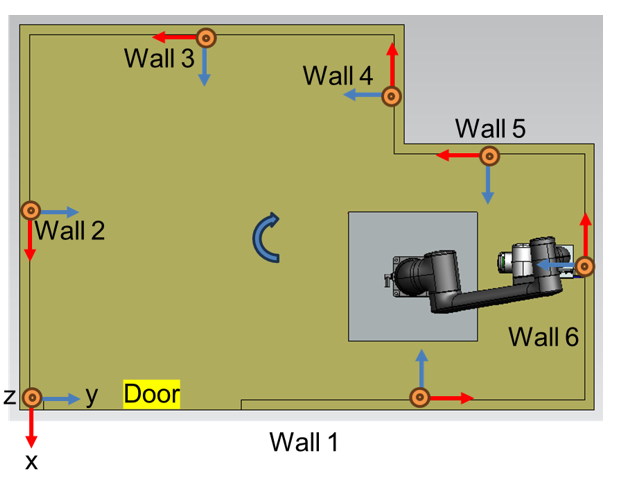
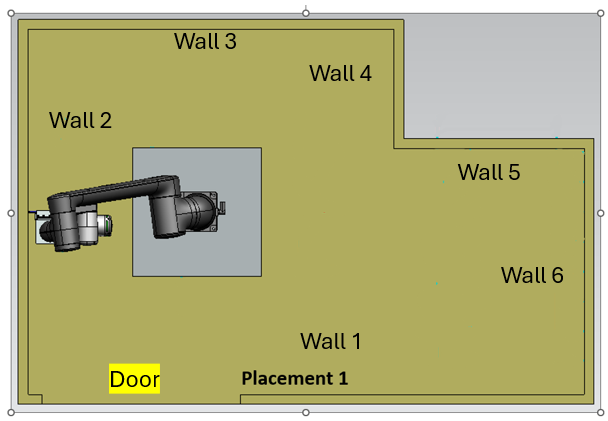
changes for ui

diff --git a/newui_Greyform/greyformui-usb-completionmessage/src/Components/Status.tsx b/newui_Greyform/greyformui-usb-completionmessage/src/Components/Status.tsx
@@ -27,7 +27,7 @@ const views = {
   reading: { title: "Reading USB drive...", message: "Please wait while we read the contents of the USB drive.", variant: "info", primaryText: "Cancel", showSpinner: true },
   success: { title: "USB drive detected", message: "Press Continue to launch the UI.", variant: "success", primaryText: "Continue", showSpinner: false },
   error:   { title: "Error reading USB drive", message: "Please plug in your drive", variant: "error", primaryText: "Try Again", showSpinner: false },
-  launching:{ title: "Launching UI…", message: "Sending request to the backend.", variant: "info", primaryText: "Launching…", showSpinner: true },
+  launching:{ title: "Loading…", message: "", variant: "info", primaryText: "Loading…", showSpinner: true },
   shutdown:{ title: "Please power off the machine", message: "The operation is completed successfully", variant: "neutral", primaryText: "", showSpinner: false },
 } as const;
 export default function Status() {

diff --git a/newui_Greyform/processlistenerrunner.py b/newui_Greyform/processlistenerrunner.py
@@ -96,7 +96,6 @@ class ListenerNodeRunner:
             set -e
             source {ros_setup}
             source {ws_setup}
-            rospack find talker_listener >/dev/null
             rosrun talker_listener listener_node.py
         """
         try:
@@ -109,14 +108,7 @@ class ListenerNodeRunner:
                 universal_newlines=True,
             )
             self.signals.page_change_signal.emit(4)
-            def _pump_out(pipe):
-                try:
-                    for line in pipe:
-                        if line:
-                            self.signals.status_signal.emit(line.rstrip())
-                finally:
-                    pipe.close()
-            threading.Thread(target=_pump_out, args=(process.stdout,), daemon=True).start()
+            threading.Thread(target=self._pump_out, args=(process.stdout,), daemon=True).start()
             def _waiter():
                 rc = process.wait()
                 msg = "Node exited normally." if rc == 0 else f"Node exited with code {rc}."
@@ -126,6 +118,14 @@ class ListenerNodeRunner:
         except Exception as e:
             self.signals.status_signal.emit(f"Process failed: {e}")
             self.process_finished()
+
+    def _pump_out(self, pipe):
+        try:
+            for line in pipe:
+                if line:
+                    self.signals.status_signal.emit(line.rstrip())
+        finally:
+            pipe.close()
 
     def on_status(self, msg: str):
         try:

diff --git a/newui_Greyform/annotation.py b/newui_Greyform/annotation.py
@@ -125,7 +125,6 @@ def getannotation(ifc_file):
             item_ids = [
                 parse_ref(t) for t in split_top_level_commas(items_list) if parse_ref(t)
             ]
-
             for iid in item_ids:
                 itype, iargs = records.get(iid, (None, None))
                 if itype == "IFCPOLYLINE":
@@ -197,9 +196,7 @@ def getannotation(ifc_file):
                                             "ObjectType": objtype,
                                             "CurveItemType": "IFCPOLYLINE",
                                             "PolylineId": sid,
-                                            "LayerNames": (
-                                                ";".join(layers) if layers else None
-                                            ),
+                                            "LayerNames": ";".join(layers) if layers else None,
                                             "StartX_local": round(p0[0]),
                                             "StartY_local": round(p0[1]),
                                             "StartZ_local": round(p0[2]),

diff --git a/newui_Greyform/argsfiles.py b/newui_Greyform/argsfiles.py
@@ -13,8 +13,8 @@ def _validate_file(path, exts):
 
 def parse_args():
     parser = argparse.ArgumentParser()
-    parser.add_argument("mainui",      type=lambda p: _validate_file(p, ".ui"),                help="Qt Designer .ui")
-    parser.add_argument("ifc_file",    type=lambda p: _validate_file(p, ".ifc"),               help="Input IFC")
-    parser.add_argument("excel_checklist",  type=lambda p: _validate_file(p, (".xlsx", ".xlsm")),   help="Checklist Excel")
-    parser.add_argument("output_excel", type=str,                                              help="Output Excel path (created/overwritten)")
+    parser.add_argument("mainui", type=lambda p: _validate_file(p, ".ui"), help="Qt Designer .ui")
+    parser.add_argument("ifc_file", type=lambda p: _validate_file(p, ".ifc"), help="Input IFC")
+    parser.add_argument("excel_checklist", type=lambda p: _validate_file(p, (".xlsx", ".xlsm")), help="Checklist Excel")
+    parser.add_argument("output_excel", type=str, help="Output Excel path (created/overwritten)")
     return parser.parse_args()

diff --git a/newui_Greyform/mainwindow.py b/newui_Greyform/mainwindow.py
@@ -39,10 +39,14 @@ class Ui_MainWindow(QMainWindow):
         )
         datadrafter = datadraft.data_draft(self.stl_file, self.args)
         df_combined_data = datadrafter.analysis()
+        iconindicator = "placementindicator1.png"
         icon = "placement1.png"
         html = f'<div style="text-align:center;"><img src="{icon}" width="800" height="600" style="display:block; margin:0 auto;"></div>'
+        htmlindicator = f'<div style="text-align:center;"><img src="{iconindicator}"  style="display:block; margin:0 auto;"></div>'
         self.mainwindow.imagelabel.setTextFormat(Qt.RichText)
         self.mainwindow.imagelabel.setText(html)
+        self.mainwindow.imageplacelabel.setTextFormat(Qt.RichText)
+        self.mainwindow.imageplacelabel.setText(htmlindicator)
         self.wall_numbers_by_placement = dataplacement.exceldataextractor(df_combined_data)
         self.mainwindow.confirmButton_2.hide()
         self.mainwindow.nextstepButton.hide()

diff --git a/newui_Greyform/mainwindowbuttoninteraction.py b/newui_Greyform/mainwindowbuttoninteraction.py
@@ -152,10 +152,14 @@ class mainwindowbuttonUI(object):
         self.nextstepButton.hide()
         self.confirmButton_2.show()
         self.hide_status_icon()
+        iconindicator = "placementindicator2.png"
         icon = "placement2.png"
         html = f'<div style="text-align:center;"><img src="{icon}" width="800" height="600" style="display:block; margin:0 auto;"></div>'
+        htmlindicator = f'<div style="text-align:center;"><img src="{iconindicator}" style="display:block; margin:0 auto;"></div>'
         self.mainwindow.imagelabel.setTextFormat(Qt.RichText)
         self.mainwindow.imagelabel.setText(html)
+        self.mainwindow.imageplacelabel.setTextFormat(Qt.RichText)
+        self.mainwindow.imageplacelabel.setText(htmlindicator)
         self.labelstatus.setText(f"Place the robot in the center of Placement 2\n(The wall that is clockwise of wall 1)")
         self.confirmButton_2.clicked.connect(lambda: self.start_scan2())
 

diff --git a/newui_Greyform/dataanalysis.py b/newui_Greyform/dataanalysis.py
@@ -10,10 +10,7 @@ from ifcopenshell.util.placement import get_local_placement
 import robot_pos as setuprobot
 import annotation as modellines
 import material as mats
-import ifcopenshell
-import re
-import heapq
-
+import ifcopenshell , re , heapq
 
 class data_draft(object):
     def __init__(self, ifc_file, args):
@@ -244,14 +241,16 @@ class data_draft(object):
                 all_objs,
                 visited,
                 walls_bss20,
-                origin_x,
-                origin_y,
+                materials,
+                model_lines_walls, 
                 other_floor,
                 centerpoint_rows,
                 storeys,
                 externalxmax_width,
                 externalymax_width,
                 door,
+                origin_x,
+                origin_y
             )
             tmptemp = Tmpholder.returntmp()
         else:

diff --git a/newui_Greyform/gettmps.py b/newui_Greyform/gettmps.py
@@ -121,7 +121,7 @@ class getTMP(object):
             }
         )
 
-    def _build_wall(wall_idx)(self):
+    def _build_wall(self, wall_idx):
         wall_dict = self.walls[wall_idx]
         wall_obj = list(wall_dict.values())[0]
         opening = self.find_opening_by_name(wall_obj["name"])
@@ -374,4 +374,3 @@ class getTMP(object):
         if match:
             width, height = int(match.group(1)), int(match.group(2))
             return width, height
-
